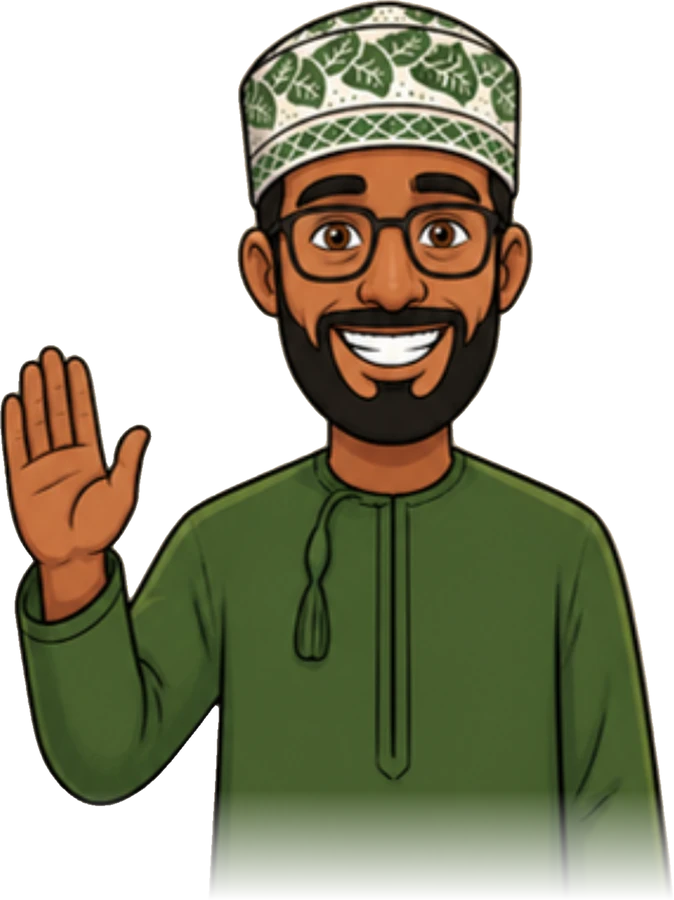
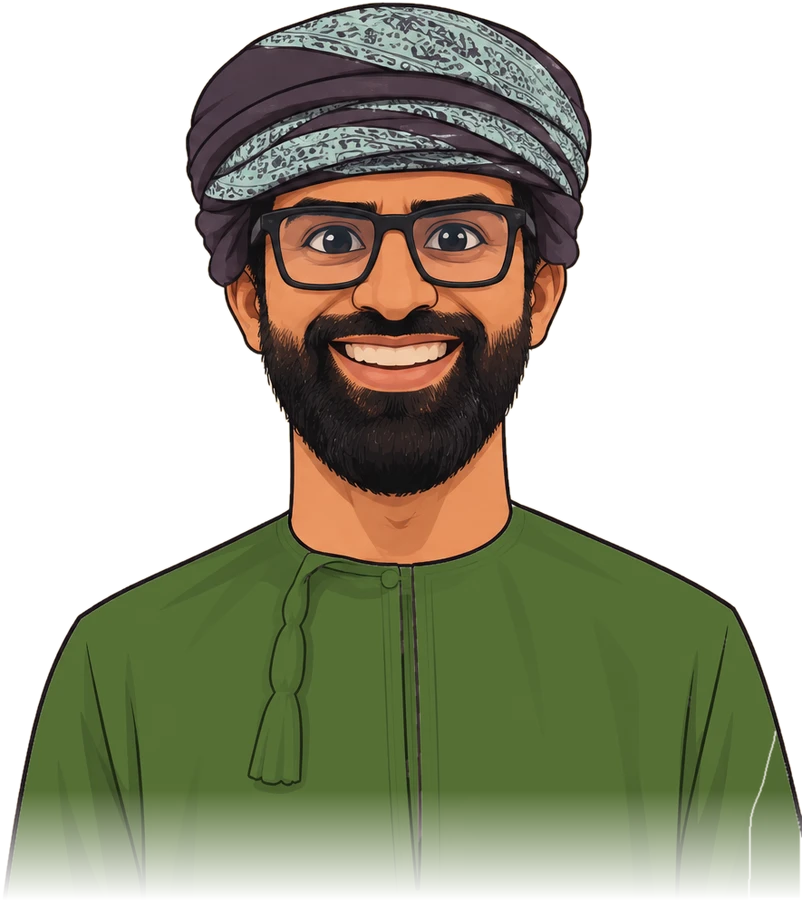
New Resident art: bearded man with glasses and masar, green dishdasha
Claude-Session: https://claude.ai/code/session_01FGyGpGpRm57zRrxfNTDffQ

diff --git a/sw.js b/sw.js
@@ -1,5 +1,5 @@
 /* Jeerah offline cache */
-const V='jeerah-202611222354';
+const V='jeerah-202611230005';
 const FILES=["app.css", "app.js", "assets/ad/mohup.png", "assets/ad/qr.svg", "assets/ad/sakna.png", "assets/audio/Ding.mp3", "assets/audio/alarm.mp3", "assets/audio/bgm.mp3", "assets/audio/chimes.mp3", "assets/audio/click_2.mp3", "assets/audio/ding_deep.mp3", "assets/audio/dum.mp3", "assets/audio/negative_sound.mp3", "assets/audio/voCouncil.mp3", "assets/audio/voEvening.mp3", "assets/audio/voMorning.mp3", "assets/audio/voPostEvening.mp3", "assets/audio/voWinGood.mp3", "assets/audio/voWinJester.mp3", "assets/audio/voWinSab.mp3", "assets/ch/complainer-bust.webp", "assets/ch/complainer-f-bust.webp", "assets/ch/complainer-f-face.webp", "assets/ch/complainer-f-full.webp", "assets/ch/complainer-face.webp", "assets/ch/complainer-full.webp", "assets/ch/fixer-bust.webp", "assets/ch/fixer-f-bust.webp", "assets/ch/fixer-f-face.webp", "assets/ch/fixer-f-full.webp", "assets/ch/fixer-face.webp", "assets/ch/fixer-full.webp", "assets/ch/legal-bust.webp", "assets/ch/legal-f-bust.webp", "assets/ch/legal-f-face.webp", "assets/ch/legal-f-full.webp", "assets/ch/legal-face.webp", "assets/ch/legal-full.webp", "assets/ch/resident-bust.webp", "assets/ch/resident-f-bust.webp", "assets/ch/resident-f-face.webp", "assets/ch/resident-f-full.webp", "assets/ch/resident-face.webp", "assets/ch/resident-full.webp", "assets/ch/saboteur-bust.webp", "assets/ch/saboteur-f-bust.webp", "assets/ch/saboteur-f-face.webp", "assets/ch/saboteur-f-full.webp", "assets/ch/saboteur-face.webp", "assets/ch/saboteur-full.webp", "assets/ch/smart-bust.webp", "assets/ch/smart-f-bust.webp", "assets/ch/smart-f-face.webp", "assets/ch/smart-f-full.webp", "assets/ch/smart-face.webp", "assets/ch/smart-full.webp", "assets/ch/solid-bust.webp", "assets/ch/solid-f-bust.webp", "assets/ch/solid-f-face.webp", "assets/ch/solid-f-full.webp", "assets/ch/solid-face.webp", "assets/ch/solid-full.webp", "assets/fonts/alexandria-arabic-wght-normal.woff2", "assets/fonts/alexandria-latin-wght-normal.woff2", "assets/fonts/lalezar-arabic-400-normal.woff2", "assets/fonts/lalezar-latin-400-normal.woff2", "assets/icons/icon-1024.png", "assets/icons/icon-180.png", "assets/icons/icon-192.png", "assets/icons/icon-32.png", "assets/icons/icon-512.png", "assets/icons/maskable-512.png", "assets/logo-full.svg", "assets/logo-mark.svg", "assets/scene/cover.webp", "assets/scene/window-elder.webp", "assets/scene/window-peek.webp", "back.js", "data.js", "index.html", "join.html", "join.js", "lib/peerjs.min.js", "lib/qrcode.js", "manifest.webmanifest", "net.js", "tv.css", "tv.html", "tv.js"];
 self.addEventListener('install',e=>{e.waitUntil(caches.open(V).then(c=>c.addAll(['./',...FILES])).then(()=>self.skipWaiting()))});
 self.addEventListener('activate',e=>{e.waitUntil(caches.keys().then(ks=>Promise.all(ks.filter(k=>k!==V).map(k=>caches.delete(k)))).then(()=>self.clients.claim()))});
